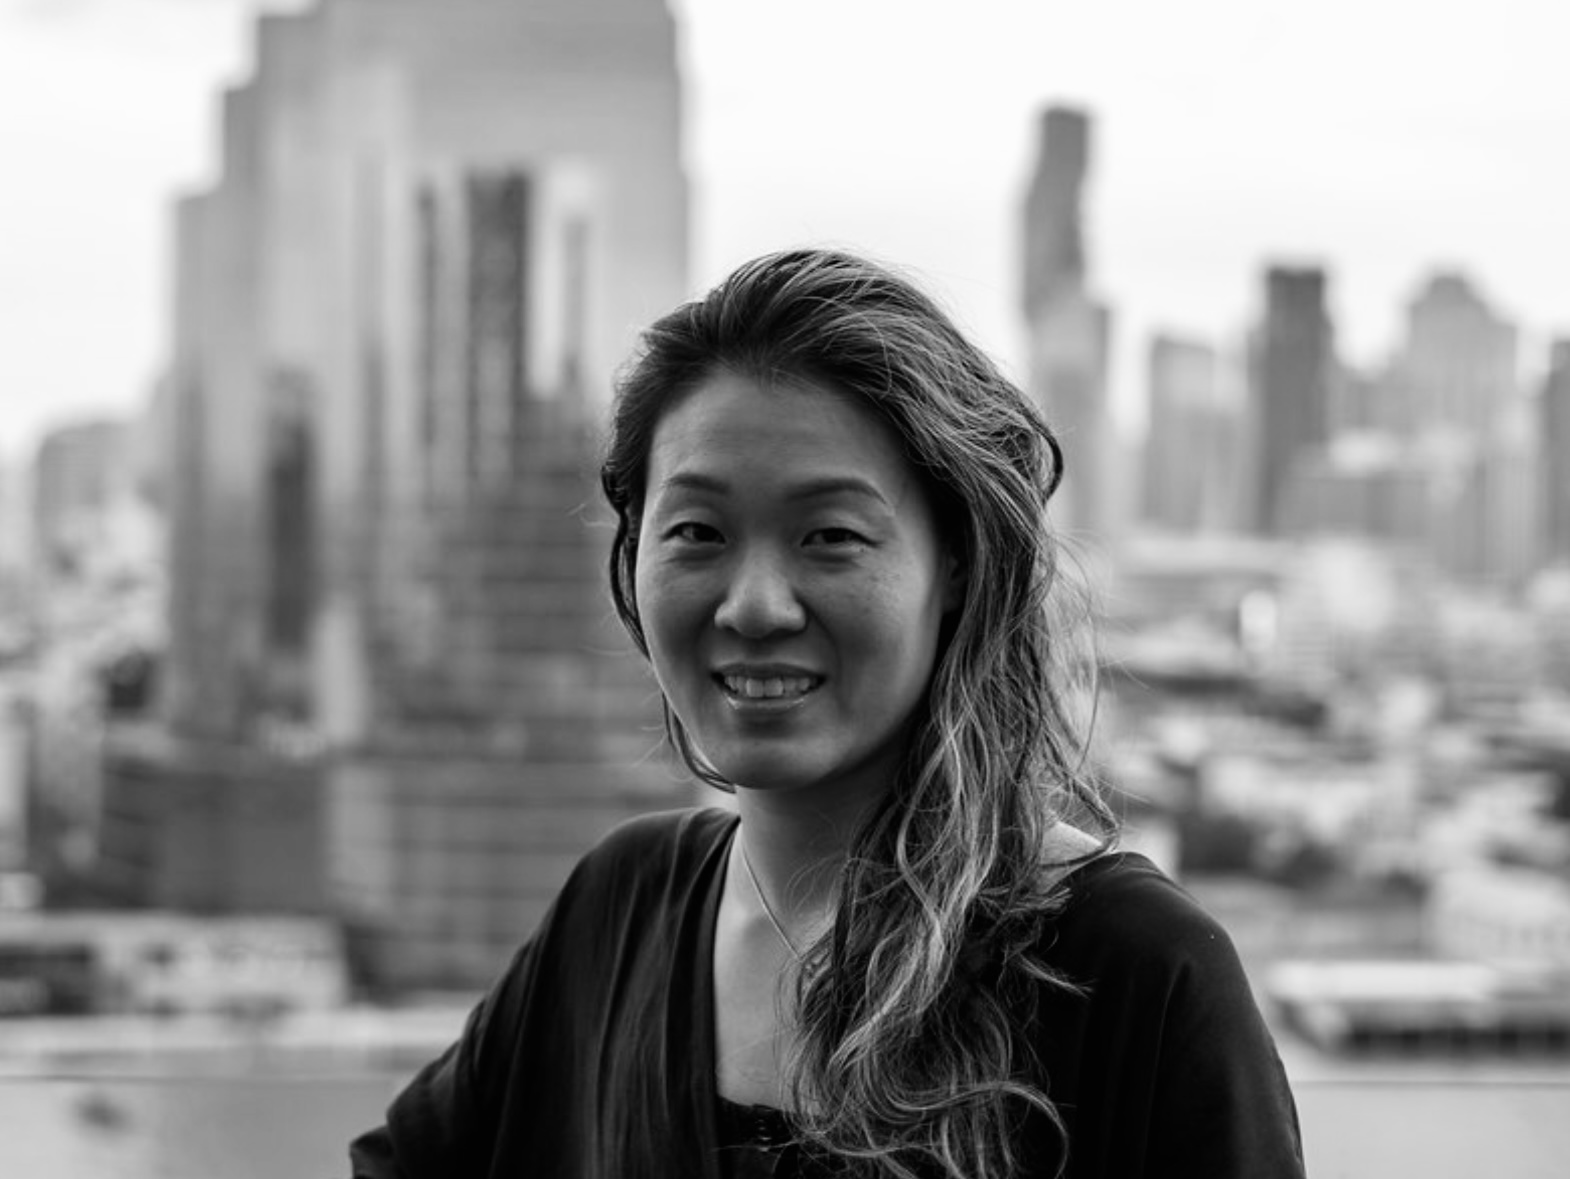
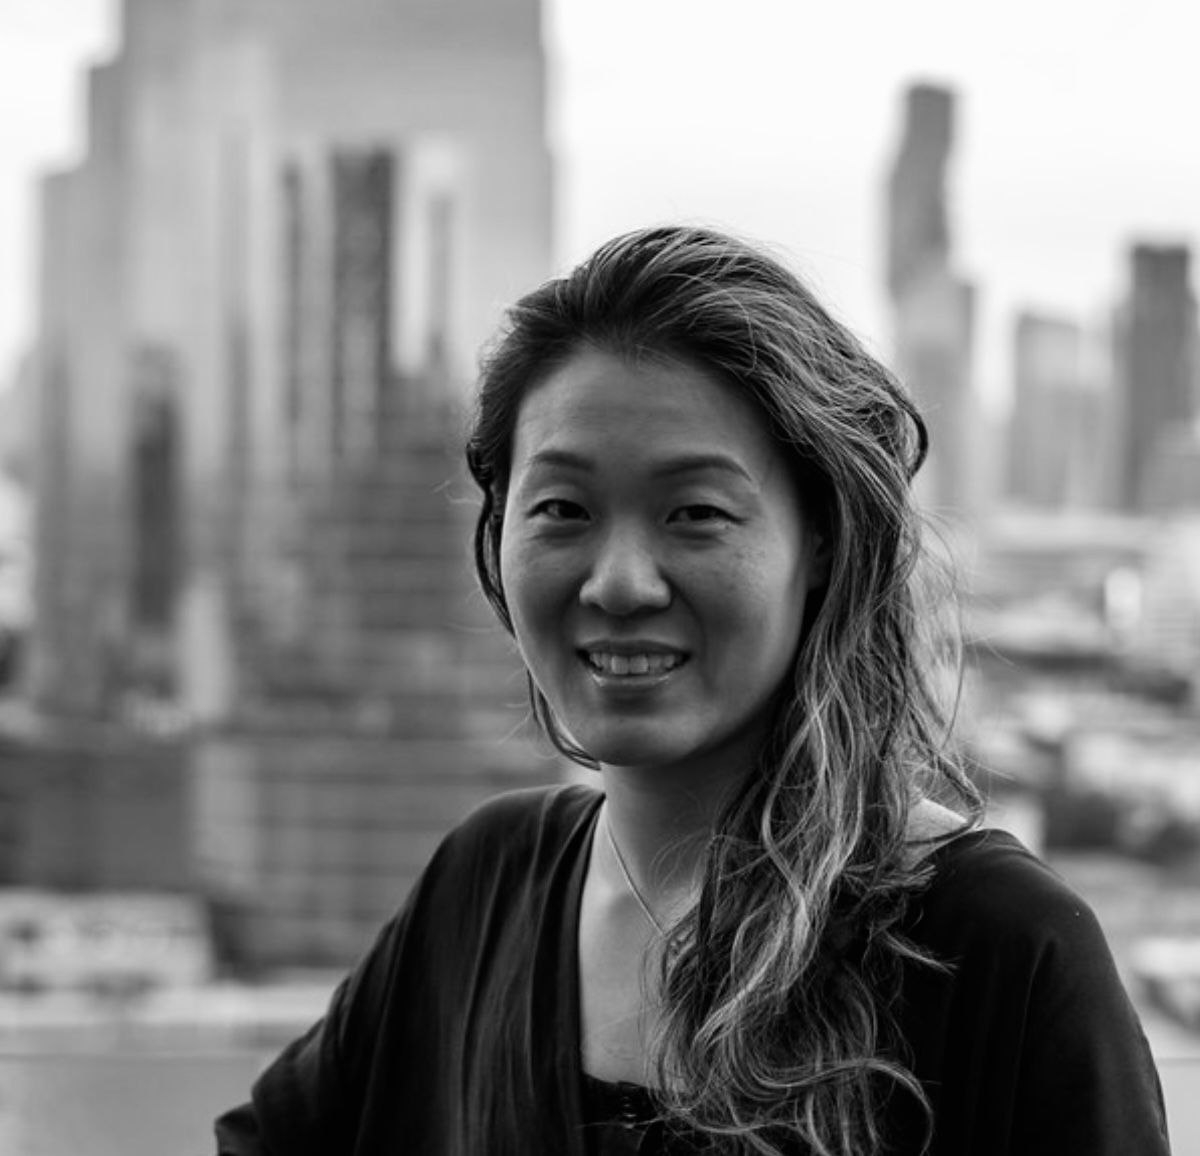
drop mobile font size helpers and make christina pic square

diff --git a/index.html b/index.html
@@ -14,7 +14,7 @@
         background-image: url(images/DSCF6088.jpg);
         background-position: center center;
         background-repeat: no-repeat;
-        background-attachment: fixed;
+        background-attachment: scroll;
         background-size: cover;
     }
 
@@ -70,7 +70,7 @@
         <section class="hero is-fullheight" id="home-section">
             <div class="hero-body">
                 <div>
-                    <p class="title is-1 is-size-3-mobile has-text-whiteg ">
+                    <p class="title is-1 has-text-whiteg ">
                         Ashtanga Yoga at Denver Mysore
                     </p>
                     <p class="subtitle is-3 is-size-5-mobile has-text-white">
@@ -84,15 +84,15 @@
     </div>
     <section class="section" id="about-section">
         <div class="container">
-            <h1 class="title is-1">
+            <h1 class="title">
                 About
             </h1>
-            <p class="subtitle is-3">
+            <p class="subtitle">
                 Denver Mysore has evolved over its many years, in an attempt to bring people together to grow, share and
                 learn about Ashtanga yoga and how it may enrich life and our community.
             </p>
 
-            <p class="subtitle is-3">
+            <p class="subtitle">
                 Our focus is not on the quantity of students we can squeeze into a room. We esteem
                 the quality – and more importantly – the self awareness of each individual student. Come explore the
                 depths of yourself on your mat and awaken the guru inside.
@@ -100,19 +100,19 @@
             <div class="fixed-grid has-1-cols-mobile">
                 <div class="grid">
                     <div class="cell">
-                        <figure class="image is-16x9">
+                        <figure class="image is-square">
                             <img src=" images/christina.jpg" />
                         </figure>
                     </div>
                     <div class="cell">
-                        <p class="title is-3"><strong>Teacher: Christina Toyota</strong></p>
-                        <p class="subtitle is-5">
+                        <p class="title"><strong>Teacher: Christina Toyota</strong></p>
+                        <p class="subtitle">
                             My asana practice and teaching draws inspiration from all my teachers, particularly Sharmila
                             Desai in Goa, India. As Sharmila would say “the IN-volution” of my self continues. I
                             complement my asana practice with yoga philosophy studies with Andrew Eppler and the
                             teachings given by various scholars in Mysore, India.
                         </p>
-                        <p class="subtitle is-5">
+                        <p class="subtitle">
                             I find great joy assisting students in their path to discover the best versions of
                             themselves. The postures are just the start, the journey continues and I embrace the eternal
                             student in us all as we continue to expand and grow. Trust the process, all will fall into
@@ -121,18 +121,18 @@
                     </div>
 
                     <div class="cell">
-                        <figure class="image is-16x9">
+                        <figure class="image is-square">
                             <img src=" images/john.jpg" />
                         </figure>
                     </div>
                     <div class="cell">
-                        <p class="title is-3"><strong>Assistant Teacher: John Roemer</strong></p>
-                        <p class="subtitle is-5">
+                        <p class="title"><strong>Assistant Teacher: John Roemer</strong></p>
+                        <p class="subtitle">
                             Guided by a desire for consistency and routine, John discovered the Denver Mysore community
                             in 2021. Since then, he has maintained a daily practice and began studying under Christina
                             as an assistant teacher in 2024.
                         </p>
-                        <p class="subtitle is-5">
+                        <p class="subtitle">
                             Outside of the studio, John is a visual artist and Boston terrier dad. Find John and Oscar
                             (🐾) perusing CDs at Twist and Shout, taking photographs on Colfax or playing Magic the
                             Gathering.
@@ -146,11 +146,11 @@
 
                     </div>
                     <div class="cell">
-                        <p class="title is-3"><strong>
+                        <p class="title"><strong>
                                 Joan Isbell & Eric Stauffer
                                 Denver Mysore Community Founders
                             </strong></p>
-                        <p class="subtitle is-5">
+                        <p class="subtitle">
                             Joan and Eric happily reside in Santa Fe, New Mexico. We are forever grateful for the 20
                             years they taught, built, and nurtured the Ashtanga yoga community in Denver. We exist today
                             because of all the groundwork laid by them and their tireless efforts and commitment to the
@@ -160,7 +160,7 @@
                     <div class="cell">
                         <section id="pricing-section">
                             <container>
-                                <p class="title is-3">Pricing</p>
+                                <p class="title">Pricing</p>
                                 <table class="table is-borderless">
                                     <tbody>
                                         <tr>
@@ -215,8 +215,8 @@
                     <div class="cell">
                         <section id="location-section">
                             <container>
-                                <p class="title is-3">Location</p>
-                                <p class="subtitle is-5">Studio 8</br>
+                                <p class="title">Location</p>
+                                <p class="subtitle">Studio 8</br>
                                     910 Santa Fe Drive (on the east side of Santa Fe)</br>
                                     Denver, CO 80204</br>
                                 <p class="is-italic">street parking available - no lot</p>
@@ -239,8 +239,8 @@
             <div class="fixed-grid has-1-cols-mobile">
                 <div class="grid">
                     <div class="cell">
-                        <p class="title is-1">Schedule</p>
-                        <p class="subtitle is-3">
+                        <p class="title">Schedule</p>
+                        <p class="subtitle">
                             Mysore classes are a well-established and traditional way to learn and practice the Ashtanga
                             yoga sequence. Students may arrive at anytime within the class and practice at their own
                             pace. The teacher offers guidance to develop and advance each individual's practice.
@@ -263,8 +263,8 @@
                 <div class="grid">
                     <div class="cell">
 
-                        <p class="title is-2">Moon Days 2024</p>
-                        <p class="subtitle is-4">
+                        <p class="title">Moon Days 2024</p>
+                        <p class="subtitle">
                             Full and new moon days are observed as rest days in the Ashtanga
                             tradition.
                         </p>
